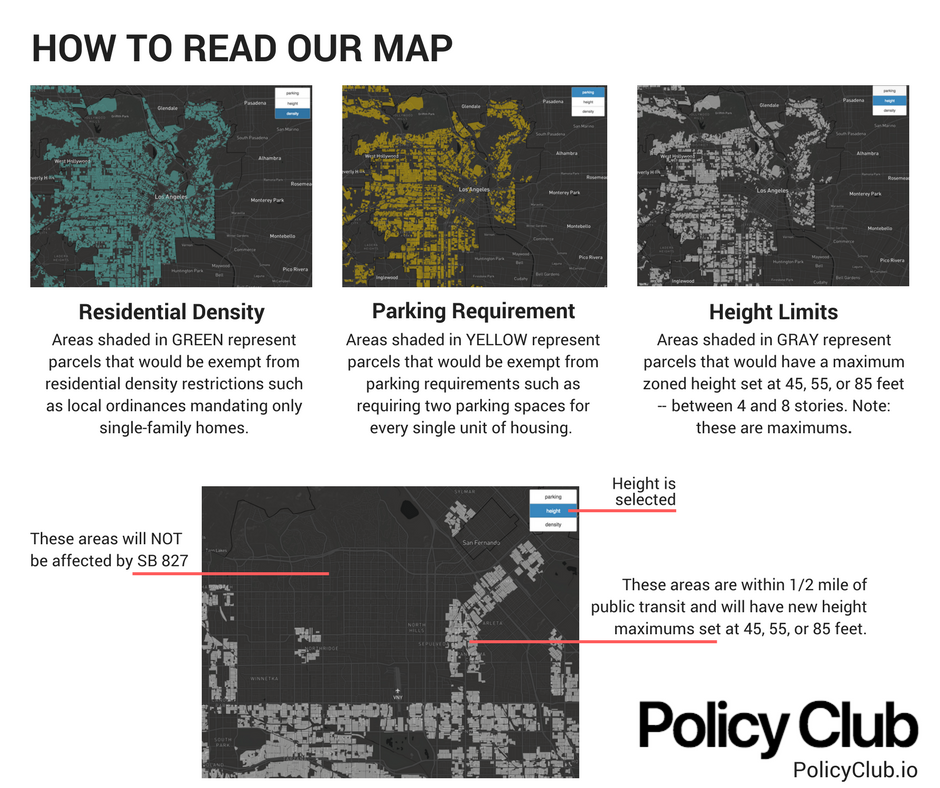
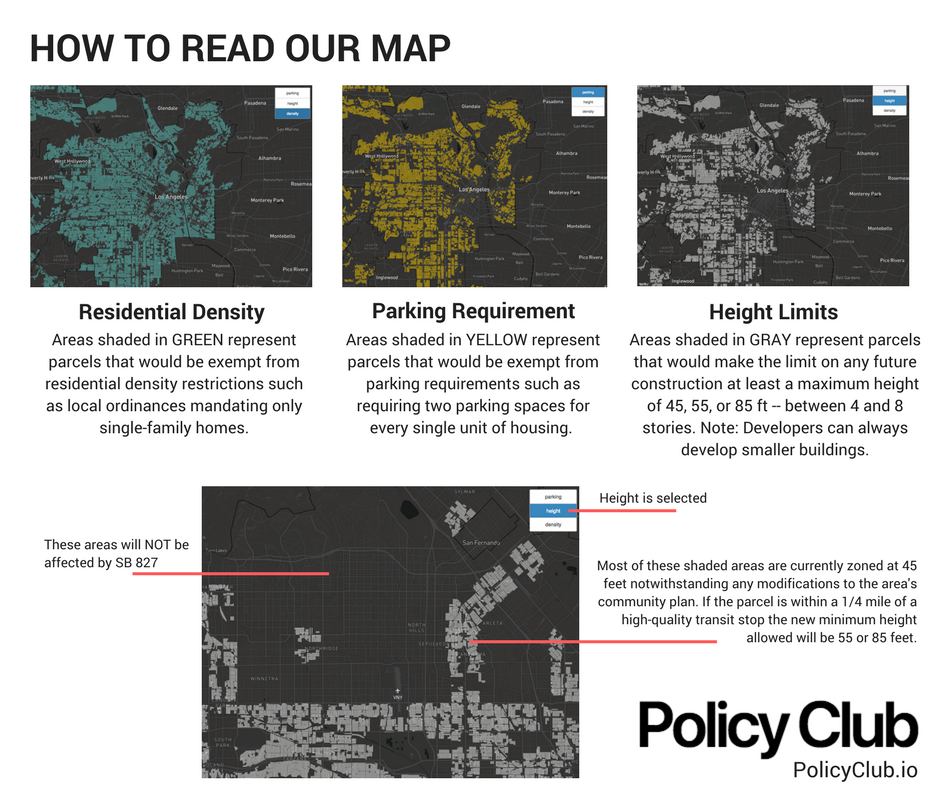
new infographics

diff --git a/sb-827.md b/sb-827.md
@@ -28,6 +28,10 @@ SB 827, as currently written, doesn't affect any local laws regarding affordable
 	<img src="images/how-to-read-this-damn-map.png" alt="how-to-read-this-damn-map" />
 </div>
 
+<div class="images">
+  <img src="images/understand-data.png" alt="How to understand this data" />
+</div>
+
 <h1> View our Policy Brief</h1>
 
 <div>
